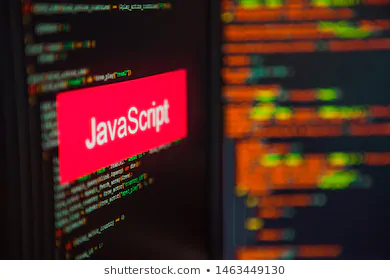
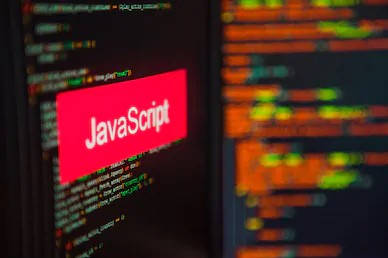
Agregando imagen

diff --git a/BLOG/blogs.html b/BLOG/blogs.html
@@ -7,7 +7,7 @@
     <link rel="stylesheet" href="../assets/Social Media/font/flaticon.css">
     <title>Mi Blog</title>
 </head>
-<body>
+<body class="home-body">
     <header>
         <section class="header-icons-container">
             <div class="icons">
@@ -20,7 +20,7 @@
         </section>
         <nav>
             <section class="nav-logo-container">
-                <a href="/"><img src="../assets/Imágenes/logo.png" alt="Logo de mi blog"></a>
+                <a href="./index.html"><img src="../assets/Imágenes/logo.png" alt="Logo de mi blog"></a>
             </section>
             <section class="profile-link">
                 <a href="./perfil.html">Sobre mi</a>
@@ -32,7 +32,7 @@
             <div class="blogs-main-new">
                 <h3>Noticias</h3>
                 <div class="blogs-news-img-container">
-                    <img src="/" alt="">
+                    <img src="..//assets/Imágenes/js.jpg" alt="">
                 </div>
                 <div class="blogs-news-info-container">
                     <h2>Titulo del Blogpost</h2>

diff --git a/assets/css/main.css b/assets/css/main.css
@@ -21,17 +21,20 @@ body {
     font-family: 'Roboto mono', monospace;
     margin: 0;
     padding: 0;
-    position: fixed;
-    top: 0;
-    bottom: 0;
-    left: 0;
-    right: 0;
 }
 
 a {
     text-decoration: none;
     display: inline;
     color: black;
+}
+
+.home-body {
+    position: fixed;
+    top: 0;
+    bottom: 0;
+    left: 0;
+    right: 0;
 }
 
 header {
@@ -152,7 +155,7 @@ nav .profile-link a {
 }
 
 .blogs-news-img-container img {
-
+    width: 85%;
 }
 
 .blogs-news-info-container {
@@ -161,4 +164,14 @@ nav .profile-link a {
 
 .blogs-news-info-container p {
     margin-bottom: 35px;
+}
+
+.blogs-posts-container {
+    padding: 0 50px 40px;
+}
+
+.blogs-posts-container h3 {
+    border-bottom: 1px solid #cdd2da;
+    padding-bottom: 20px;
+    text-align: center;
 }
